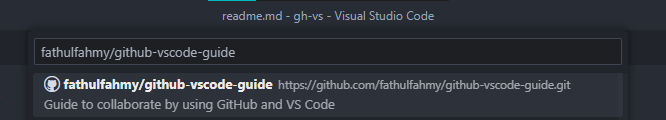
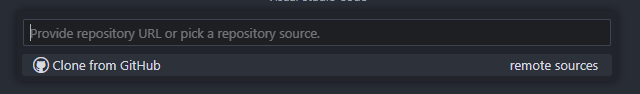
feat: add numbering and more images

diff --git a/README.md b/README.md
@@ -1,8 +1,8 @@
 <h1>GitHub in VS Code</h1>
 
-<h2>Setup</h2>
+<h2>1.0 Setup</h2>
 
-<h3>Prerequisites</h3>
+<h3>1.1 Prerequisites</h3>
 <ol>
   <li>Create <a href="https://github.com/">GitHub</a> account</li>
   <li>Install <a href="https://git-scm.com/downloads">Git</a></li>
@@ -16,132 +16,168 @@
   <li>Receive invitation to be added as collaborator of a repository</li>
 </ol>
 
-<h3>Accept collaboration invitation</h3>
+<h3>1.2 Accept collaboration invitation</h3>
 <ol>
   <li>Open browser</li>
   <li>Open <code>https://github.com/username/repo-name</code></li>
   <li>Accept invitation to be added as collaborator of the repository</li>
 </ol>
 
-<h3>Clone repository to local folder</h3>
+<h3>1.3 Clone repository to local folder</h3>
 <ol>
   <li>Open VS Code</li>
   <li>Open Command Palette <code>Ctrl+Shift+P</code></li>
+
   <li>Type <code>git clone</code> and hit <code>enter</code></li>
-  <img src="assets/readme/git-clone.png" alt="">
+  <img src="assets/readme/git-clone.png" alt="" />
+
   <li>Select <code>Clone from GitHub</code></li>
+  <img src="assets/readme/git-clone-2.png" alt="" />
+
   <li>Type <code>username/repository-name</code></li>
-  <img src="assets/readme/git-clone-2.png" alt="">
+  <img src="assets/readme/git-clone-3.png" alt="" />
   <li>
     Click <code>Allow</code> if
-    <code>The extension 'GitHub' wants to sign in using GitHub.</code> (else
-    skip step 6 and 7)
+    <code>The extension 'GitHub' wants to sign in using GitHub.</code>
   </li>
   <li>Sign in with your GitHub account</li>
   <li>Select location to store repository</li>
-  <li>You have successfully cloned an online repository to local desktop!</l>
+  <li>You have successfully cloned an online repository to local desktop!</li>
 </ol>
 
-<h2>Rinse and repeat workflow</h2>
+<h2>2.0 Rinse and repeat workflow</h2>
 
-<h3>Open cloned repository</h3>
+<h3>2.1 Open cloned repository</h3>
 <ol>
   <li>Open VS Code</li>
+
   <li>Select <code>File</code> on top left corner</li>
+  <img src="assets/readme/open-folder.png" alt="" />
+
   <li>Select <code>Open Folder...</code></li>
-  <img src="assets/readme/open-folder.png" alt="">
   <li>Select location of stored repository</li>
 </ol>
 
-<h3>Create a feature branch</h3>
+<h3>2.2 Create a feature branch</h3>
 <ol>
   <li>Make sure you are in branch <code>main</code> on bottom left corner</li>
-  <img src="assets/readme/main-branch.png" alt="">
-  <li>Click Sync Branch button on right side of <code>main</code> (cycle arrow icon)</li>
+  <img src="assets/readme/main-branch.png" alt="" />
+
   <li>
-    Click <code>OK</code> if
-    <code
-      >This action will pull and push commits from and to "origin/main"</code
-    >
-    (else skip this step)
+    Click Sync Branch button on right side of <code>main</code> (cycle arrow
+    icon)
   </li>
-  <img src="assets/readme/pull-push-main.png" alt="">
-  <li>Click <code>main</code> branch on bottom left corner</li>
+  <img src="assets/readme/button-sync-changes.png" alt="" />
+
+  <li>Click branch <code>main</code> on bottom left corner</li>
 
   <li>Select <code>Create new branch...</code></li>
-  <img src="assets/readme/create-branch.png" alt="">
+  <img src="assets/readme/create-branch.png" alt="" />
+
   <li>Type <code>feature/feature-name</code> and hit <code>enter</code></li>
-  <img src="assets/readme/create-branch-2.png" alt="">
+  <img src="assets/readme/create-branch-2.png" alt="" />
+
   <li>
     Click Publish Branch button on bottom left corner and right side of
-    <code>feature/feature-name</code> (cloud with arrow icon) 
+    <code>feature/feature-name</code> (cloud arrow icon)
   </li>
-  <img src="assets/readme/publish-branch.png" alt="">
-  <li>Click <code>Close</code> button if <code>Would you like to create a Pull Request for branch 'feature/feature-name?'</code> (else skip this step)</li>
-  <img src="assets/readme/create-branch-3.png" alt="">
+  <img src="assets/readme/button-publish-branch.png" alt="" />
+
+  <li>
+    Click <code>Close</code> button if
+    <code
+      >Would you like to create a Pull Request for branch
+      'feature/feature-name?'</code
+    >
+    pops up
+  </li>
+  <img src="assets/readme/popup-create-pr.png" alt="" />
+
   <li>You have successfully created a feature branch!</li>
 </ol>
 
-<h3>Make changes on feature branch</h3>
+<h3>2.3 Make changes on feature branch</h3>
 <ol>
   <li>
     Make sure you are in branch <code>feature/feature-name</code> on bottom left
     corner
   </li>
-  <img src="assets/readme/feaature-branch.png" alt="">
+  <img src="assets/readme/feature-branch.png" alt="" />
   <li>Make changes (create, edit, delete files)</li>
 </ol>
 
-<h3>Push feature branch to main branch</h3>
+<h3>2.4 Push feature branch to main branch</h3>
 <ol>
-  <li>Only push feature branch when your feature is complete</li>
+  <li>Only push feature branch when your task is complete</li>
+
   <li>
     Make sure you are in branch <code>feature/feature-name</code> on bottom left
     corner
   </li>
-  <img src="assets/readme/feaature-branch.png" alt="">
+  <img src="assets/readme/feature-branch.png" alt="" />
+
   <li>Click source control on left sidebar or <code>Ctrl+Shift+G</code></li>
-  <img src="assets/readme/source-control.png" alt="">
+  <img src="assets/readme/sidebar-source-control.png" alt="" />
+
   <li>
     Hover <code>Changes</code> and click <code>+</code> Stage All Changes button
   </li>
-  <img src="assets/readme/stage-changes.png" alt="">
+  <img src="assets/readme/button-stage-changes.png" alt="" />
+
   <li>
     Click <code>Message</code> input box above <code>/ Commit</code> button
   </li>
   <li>Type <code>feat: add feature-name</code></li>
-  <img src="assets/readme/commit-message.png" alt="">
-  <li><code>COMMIT_EDITMSG</code> will open if you skip step 6. Close <code>COMMIT_EDITMSG</code> and do step 6. (else skip this)</li>
-  <img src="assets/readme/commit-no-message.png" alt="">
+  <img src="assets/readme/commit-message.png" alt="" />
+
+  <li>
+    <code>COMMIT_EDITMSG</code> will open if you skip step 6. Close
+    <code>COMMIT_EDITMSG</code> and do step 6.
+  </li>
+  <img src="assets/readme/commit-no-message.png" alt="" />
+
   <li>Click <code>/ Commit</code> button</li>
+
   <li>Click <code>Sync Changes</code> button</li>
-  <img src="assets/readme/sync-changes.png" alt="">
-  <li>Click <code>OK</code> if <code>This action will pull and push commits from and to "origin/feature/feature-name"</code>(else skip this step)</li>
-  <img src="assets/readme/pull-push-feature.png" alt="">
+  <img src="assets/readme/button-large-sync-changes.png" alt="" />
+
   <li>Click GitHub on left sidebar</li>
-  <img src="assets/readme/create-pr.png" alt="">
-  <li>Hover <code>PULL REQUESTS</code></li>
-  <li>Click <code>Create Pull Request</code> button (plus arrow dot icon)</li>
+  <img src="assets/readme/sidebar-pr.png" alt="" />
+
+  <li>
+    Hover <code>PULL REQUESTS</code> and click
+    <code>Create Pull Request</code> button (plus arrow dot icon)
+  </li>
+  <img src="assets/readme/button-pr.png" alt="" />
+
   <li>
     Make sure <code>base</code> is <code>main</code> and <code>merge</code> is
     <code>feature/feature-name</code>
   </li>
-  <img src="assets/readme/create-pr-2.png" alt="">
+  <img src="assets/readme/create-pr.png" alt="" />
+
   <li>Click <code>Create</code></li>
-  <li>You have successfully pushed a feature branch to main branch!</li>
-  <img src="assets/readme/create-pr-3.png" alt="">
+
+  <li>
+    You have successfully requested to push feature branch to main branch!
+  </li>
+  <img src="assets/readme/create-pr-2.png" alt="" />
 </ol>
 
-<h3>Delete local branch after feature is approved</h3>
+<h3>2.5 Delete local branch after feature is approved</h3>
 <ol>
   <li>Open Command Palette <code>Ctrl+Shift+P</code></li>
+
   <li>Type <code>git delete branch</code> and hit <code>enter</code></li>
+  <img src="assets/readme/git-delete-branch.png" alt="" />
+
   <li>Select <code>feature/feature-name</code> that has been approved</li>
+  <img src="assets/readme/git-delete-branch-2.png" alt="" />
 </ol>
 
 <h4>Congratulations. You are now a GitHub collaborator!</h4>
 
-<h2>References</h2>
+<h2>3.0 References</h2>
 <ol>
   <li>
     <a href="https://code.visualstudio.com/docs/sourcecontrol/intro-to-git">
